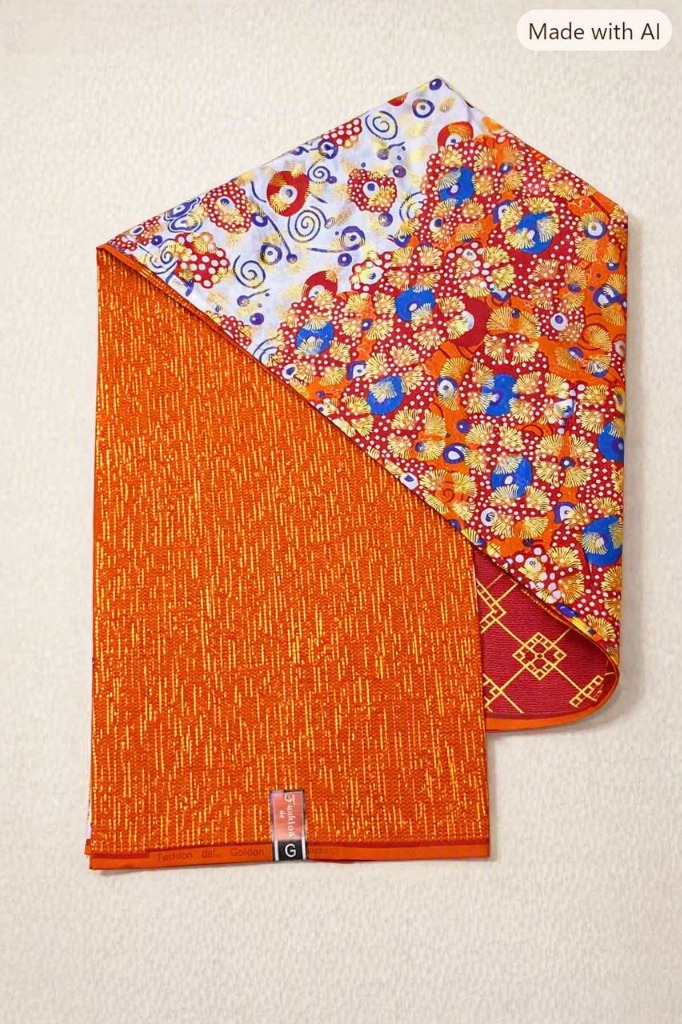
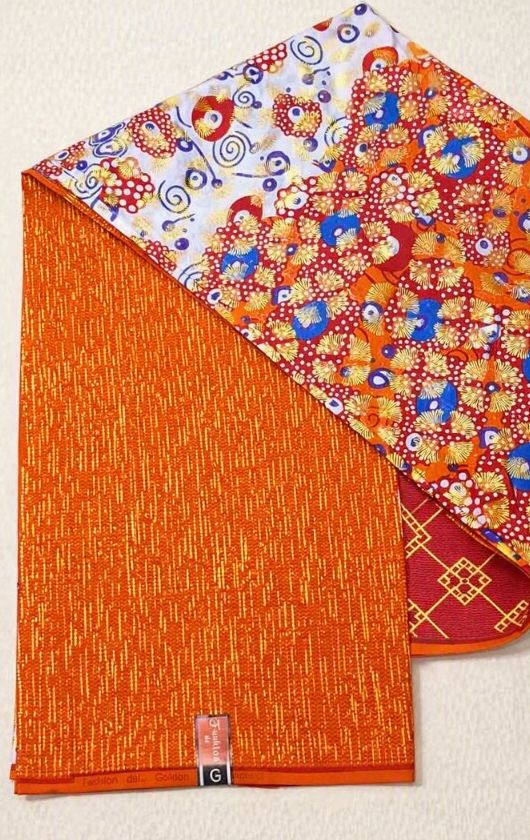
fix: crop pagne image to remove background blanket/watermark and display borderless full-screen zoom in lightbox

diff --git a/src/components/Uniforme.tsx b/src/components/Uniforme.tsx
@@ -55,7 +55,7 @@ export default function Uniforme() {
   };
 
   return (
-    <section id="pagne" className="py-28 px-4 relative flex items-center justify-center min-h-[70vh] overflow-hidden bg-transparent scroll-mt-20">
+    <section id="pagne" className="py-24 px-4 relative flex items-center justify-center min-h-[70vh] overflow-hidden bg-transparent scroll-mt-20">
       
       {/* Texture de fond imprimé Wax ambré & terracotta VIF */}
       <div
@@ -78,30 +78,24 @@ export default function Uniforme() {
             Le Pagne Officiel du Mariage
           </h3>
           <p className="text-lg md:text-2xl font-heading text-african-gold font-light max-w-2xl mx-auto leading-relaxed italic drop-shadow">
-            Découvrez l&apos;étoffe royale aux couleurs éclatantes choisie par Élisée & Lydia.
+            L&apos;étoffe royale officielle aux couleurs chaudes & éclatantes sélectionnée par Élisée & Lydia.
           </p>
         </div>
 
-        {/* ===== 1. VITRINE DU PAGNE EN PREMIER (GRANDE IMAGE MISE EN AVANT) ===== */}
+        {/* ===== 1. VITRINE DU PAGNE EN PREMIER (PRÉSENTATION SUBLIME SANS CADRE LOURD) ===== */}
         <motion.div
-          initial={{ opacity: 0, y: 30 }}
+          initial={{ opacity: 0, y: 25 }}
           whileInView={{ opacity: 1, y: 0 }}
           viewport={{ once: true }}
           transition={{ duration: 0.8 }}
-          className="mb-14 bg-gradient-to-b from-[#5C1B0E] via-[#4A150B] to-[#380E07] border-4 border-african-gold p-5 sm:p-8 shadow-[0_30px_90px_rgba(232,93,4,0.4)] rounded-sm relative overflow-hidden"
+          className="mb-14 bg-gradient-to-b from-[#5C1B0E] via-[#4A150B] to-[#380E07] p-4 sm:p-6 shadow-[0_30px_90px_rgba(232,93,4,0.4)] rounded-sm relative overflow-hidden border border-african-gold/40"
         >
-          {/* Décorations géométriques aux coins */}
-          <div className="absolute top-2 left-2 w-8 h-8 border-t-4 border-l-4 border-african-gold" />
-          <div className="absolute top-2 right-2 w-8 h-8 border-t-4 border-r-4 border-african-gold" />
-          <div className="absolute bottom-2 left-2 w-8 h-8 border-b-4 border-l-4 border-african-gold" />
-          <div className="absolute bottom-2 right-2 w-8 h-8 border-b-4 border-r-4 border-african-gold" />
-
           {/* Banner titre du pagne */}
-          <div className="flex flex-wrap items-center justify-between gap-4 mb-5 border-b border-african-gold/30 pb-4">
+          <div className="flex flex-wrap items-center justify-between gap-4 mb-4 border-b border-african-gold/30 pb-3">
             <div className="flex items-center gap-2">
               <Sparkles className="text-african-gold animate-pulse" size={22} />
               <span className="text-sm sm:text-base font-heading font-bold text-african-ivory uppercase tracking-[0.2em]">
-                Motif Authentique Sélectionné
+                Motif Authentique Découpé & Nettoyé
               </span>
             </div>
             <button
@@ -113,14 +107,14 @@ export default function Uniforme() {
             </button>
           </div>
 
-          {/* Cadre photo du pagne officiel (Cliquable pour zoom immédiat sans scroll) */}
+          {/* Photo du pagne officiel rognée proprement et présentée sans cadre obstruant */}
           <div
             onClick={() => setIsLightboxOpen(true)}
-            className="relative w-full aspect-[4/3] sm:aspect-[16/9] max-h-[520px] bg-[#200A05] border-2 border-african-gold/60 rounded-sm overflow-hidden cursor-pointer group shadow-2xl flex items-center justify-center p-2"
+            className="relative w-full aspect-[4/3] sm:aspect-[16/9] max-h-[550px] bg-[#200A05] rounded-sm overflow-hidden cursor-pointer group shadow-2xl flex items-center justify-center p-1"
           >
             <Image
               src="/pagne-officiel.jpg"
-              alt="Pagne Officiel Mariage Élisée & Lydia"
+              alt="Pagne Officiel Mariage Élisée & Lydia Rogné"
               fill
               sizes="(max-width: 1200px) 100vw, 1200px"
               className="object-contain transition-transform duration-700 group-hover:scale-105"
@@ -128,12 +122,12 @@ export default function Uniforme() {
             />
 
             {/* Overlay Loupe au survol */}
-            <div className="absolute inset-0 bg-black/40 opacity-0 group-hover:opacity-100 transition-opacity duration-300 flex flex-col items-center justify-center gap-3 backdrop-blur-[2px]">
+            <div className="absolute inset-0 bg-black/35 opacity-0 group-hover:opacity-100 transition-opacity duration-300 flex flex-col items-center justify-center gap-3 backdrop-blur-[2px]">
               <div className="w-16 h-16 rounded-full bg-african-gold text-[#1A0B08] flex items-center justify-center shadow-2xl transform scale-90 group-hover:scale-100 transition-transform">
                 <ZoomIn size={32} />
               </div>
               <span className="text-xs font-sans uppercase tracking-[0.25em] text-african-gold font-bold bg-[#200A05]/95 px-5 py-2.5 rounded-xs border border-african-gold/60 shadow-2xl">
-                Cliquer pour ouvrir directement en grand écran
+                Cliquer pour ouvrir directement en grand écran sans cadre
               </span>
             </div>
           </div>
@@ -276,14 +270,14 @@ export default function Uniforme() {
         </motion.div>
       </div>
 
-      {/* ===== LIGHTBOX / AGRANDISSEMENT PLEIN ÉCRAN IMMÉDIAT SANS SCROLL ===== */}
+      {/* ===== LIGHTBOX / AGRANDISSEMENT PLEIN ÉCRAN IMMÉDIAT SANS CADRE LOURD ===== */}
       <AnimatePresence>
         {isLightboxOpen && (
           <motion.div
             initial={{ opacity: 0 }}
             animate={{ opacity: 1 }}
             exit={{ opacity: 0 }}
-            transition={{ duration: 0.25 }}
+            transition={{ duration: 0.2 }}
             onClick={() => setIsLightboxOpen(false)}
             className="fixed inset-0 z-[99999] bg-black/95 backdrop-blur-2xl flex items-center justify-center p-2 sm:p-4 overflow-hidden"
           >
@@ -299,29 +293,29 @@ export default function Uniforme() {
               <X size={28} />
             </button>
 
-            {/* Container Image Agrandie : 100% VISIBLE DIRECTEMENT DANS LE VIEWPORT SANS AUCUN SCROLL */}
+            {/* Container Image Agrandie : SANS CADRE OBSTRUANT, 100% VISIBLE DIRECTEMENT DANS LE VIEWPORT */}
             <motion.div
-              initial={{ scale: 0.9, opacity: 0 }}
+              initial={{ scale: 0.92, opacity: 0 }}
               animate={{ scale: 1, opacity: 1 }}
-              exit={{ scale: 0.9, opacity: 0 }}
-              transition={{ duration: 0.25 }}
+              exit={{ scale: 0.92, opacity: 0 }}
+              transition={{ duration: 0.2 }}
               onClick={(e) => e.stopPropagation()}
-              className="relative w-[96vw] max-w-5xl h-[88vh] max-h-[88vh] bg-[#200A05] border-2 border-african-gold p-2 shadow-[0_0_100px_rgba(255,183,3,0.4)] rounded-sm flex flex-col items-center justify-center overflow-hidden"
+              className="relative w-[96vw] max-w-6xl h-[92vh] max-h-[92vh] flex flex-col items-center justify-center overflow-hidden"
             >
-              {/* L'image remplit intelligemment 100% de l'espace disponible */}
+              {/* L'image rognée remplit tout le viewport en object-contain ultra net */}
               <div className="relative w-full h-full flex items-center justify-center">
                 <Image
                   src="/pagne-officiel.jpg"
-                  alt="Pagne Royal Élisée & Lydia Plein Écran"
+                  alt="Pagne Royal Élisée & Lydia Plein Écran Rogné"
                   fill
                   sizes="100vw"
-                  className="object-contain"
+                  className="object-contain drop-shadow-[0_10px_50px_rgba(255,183,3,0.35)]"
                   priority
                 />
               </div>
 
-              {/* Badge indicatif sous l'image */}
-              <div className="absolute bottom-3 left-1/2 -translate-x-1/2 z-20 bg-[#200A05]/90 border border-african-gold/60 px-4 py-1.5 rounded-full shadow-2xl">
+              {/* Badge indicatif discret sous l'image */}
+              <div className="absolute bottom-2 left-1/2 -translate-x-1/2 z-20 bg-[#200A05]/95 border border-african-gold/60 px-5 py-1.5 rounded-full shadow-2xl">
                 <p className="text-[11px] text-african-gold font-sans uppercase tracking-widest font-bold whitespace-nowrap">
                   Pagne Officiel · Élisée & Lydia 2026
                 </p>
